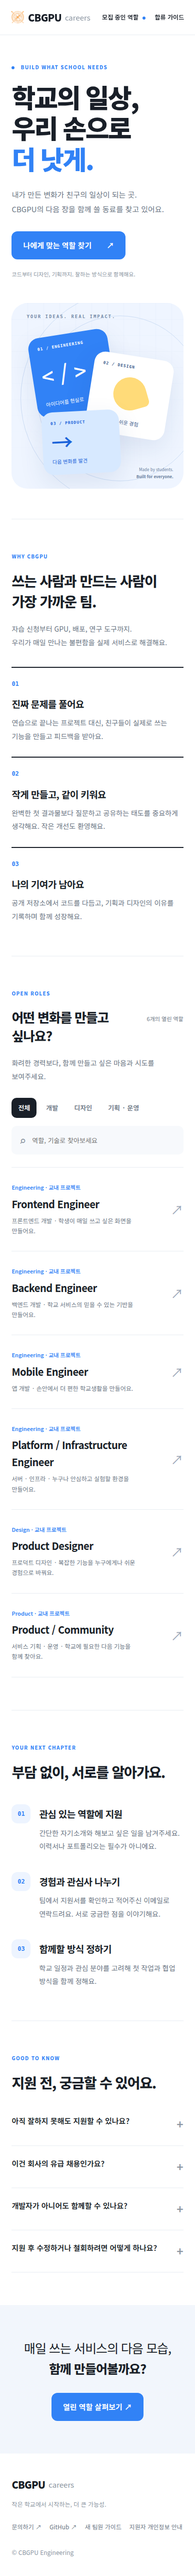
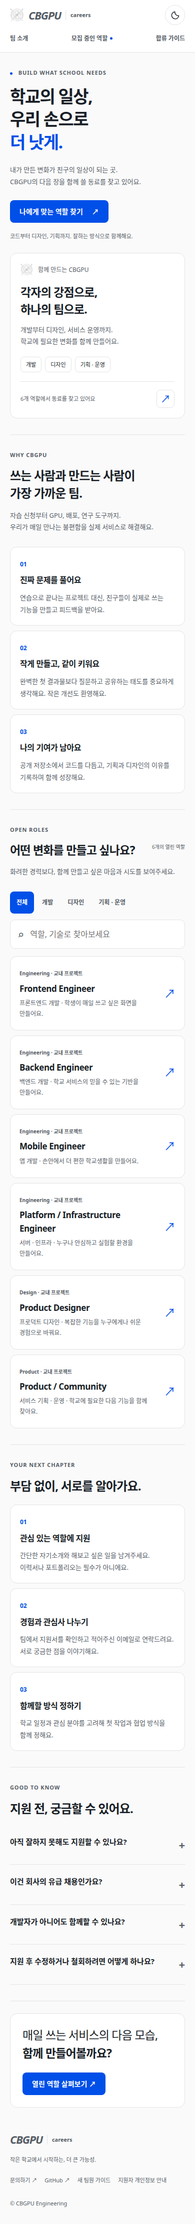
Align recruitment and onboarding with CBGPU public-site design and themes

diff --git a/careers/public/style.css b/careers/public/style.css
@@ -1,6 +1,30 @@
-@import url('https://fonts.googleapis.com/css2?family=Noto+Sans+KR:wght@400;500;600;700;800;900&display=swap');
-:root{--ink:#191f28;--muted:#6b7684;--blue:#3182f6;--line:#e8edf2;--soft:#f7f9fc}*{box-sizing:border-box}html{scroll-behavior:smooth;scroll-padding-top:100px}body{margin:0;color:var(--ink);font-family:'Noto Sans KR',-apple-system,BlinkMacSystemFont,'Segoe UI',sans-serif;font-size:16px;line-height:1.7;word-break:keep-all}button,input,textarea{font:inherit}a{color:inherit;text-decoration:none}button,a,input,textarea,summary{touch-action:manipulation}button,a,summary{-webkit-tap-highlight-color:transparent}button{cursor:pointer}a:focus-visible,button:focus-visible,summary:focus-visible{outline:3px solid #3182f6;outline-offset:5px}input:focus,textarea:focus{outline:2px solid #3182f6;outline-offset:1px}header{height:88px;border-bottom:1px solid var(--line);display:flex;align-items:center;justify-content:space-between;padding:0 max(5vw,24px);background:#ffffffee;backdrop-filter:blur(18px);position:sticky;top:0;z-index:20;gap:20px}.brand{display:inline-flex;align-items:center;gap:10px;white-space:nowrap}.brand img{width:32px;height:32px;object-fit:contain}.brand strong{font-size:23px;font-weight:900;letter-spacing:-.8px}.brand span{color:#8b95a1;font-size:18px}.header-link{font-size:13px;color:var(--muted)}nav{display:flex;gap:34px;font-size:14px;font-weight:600}nav a:hover,.header-link:hover{color:var(--blue)}.nav-dot,.live-dot{display:inline-block;border-radius:50%;background:var(--blue);width:6px;height:6px;vertical-align:middle;margin-left:5px}.live-dot{margin:0 8px 0 0}.hero{max-width:1200px;margin:0 auto;min-height:710px;display:grid;grid-template-columns:1fr 1fr;align-items:center;gap:60px;padding:72px 36px 90px}.eyebrow{font-size:11px;letter-spacing:1.8px;font-weight:800;color:var(--blue);margin:0 0 24px}h1{font-size:clamp(48px,5.3vw,72px);line-height:1.18;letter-spacing:-4px;margin:0 0 28px;font-weight:900}h1 span{color:var(--blue)}.hero-desc{color:var(--muted);line-height:1.9;font-size:17px;margin:0 0 30px}.primary{display:inline-flex;justify-content:space-between;gap:30px;align-items:center;background:var(--blue);color:#fff;padding:15px 23px;border:0;border-radius:12px;font-size:15px;font-weight:700;transition:background .2s,transform .2s}.primary:hover{background:#1b64da;transform:translateY(-2px)}.primary:disabled{opacity:.65;cursor:wait}.hero-note{color:#8b95a1;font-size:11px;margin-top:20px}.hero-art{height:500px;position:relative;border-radius:32px;background:#eff5ff;overflow:hidden;isolation:isolate}.art-grid{position:absolute;inset:0;background-image:linear-gradient(#dce7f755 1px,transparent 1px),linear-gradient(90deg,#dce7f755 1px,transparent 1px);background-size:32px 32px;mask-image:linear-gradient(#000,transparent)}.art-label{position:absolute;top:30px;left:30px;color:#778ca9;font:600 10px monospace;letter-spacing:2px}.orbit{position:absolute;border:1px solid #cbdcf4;border-radius:50%;width:430px;height:430px;top:35px;left:32px}.orbit-two{width:330px;height:330px;top:85px;left:82px}.tile{position:absolute;display:flex;flex-direction:column;justify-content:space-between;width:190px;height:194px;padding:21px;border-radius:22px;box-shadow:0 18px 50px #19427e1a}.tile span{font:600 9px monospace;letter-spacing:1px}.tile b{font-size:53px;font-weight:500;line-height:1}.tile small{font-size:11px}.tile-code{background:#3182f6;color:white;left:45px;top:84px;transform:rotate(-9deg)}.tile-design{background:white;right:28px;top:155px;transform:rotate(9deg);color:#42618e}.tile-product{background:#d7e9ff;color:#1b64da;left:74px;top:266px;transform:rotate(-3deg);width:180px;height:153px}.design-shape{width:66px;height:66px;background:#ffdb79;border-radius:50% 50% 10px 50%;align-self:center;transform:rotate(-25deg)}.art-footer{position:absolute;bottom:25px;right:25px;display:flex;flex-direction:column;text-align:right;font-size:10px;color:#6b819e;line-height:1.7}.section{max-width:1128px;padding:100px 0;margin:0 auto;scroll-margin-top:15px}.intro{border-top:1px solid var(--line)}h2{font-size:38px;line-height:1.45;letter-spacing:-1.8px;margin:0 0 22px;font-weight:800}.section-desc{color:var(--muted);font-size:16px;line-height:1.9;margin:0 0 42px}.values,.steps{display:grid;grid-template-columns:repeat(3,1fr);gap:45px;margin-top:55px}.values article{border-top:2px solid var(--ink);padding-top:22px}.values article>span,.steps article>span{font:600 12px monospace;color:var(--blue)}h3{font-size:21px;letter-spacing:-.6px;margin:20px 0 12px}.values p,.steps p{color:var(--muted);font-size:14px;line-height:1.9;margin:0}.positions{border-top:1px solid var(--line)}.section-heading{display:flex;justify-content:space-between;align-items:center}.count{font-size:13px;color:var(--muted);white-space:nowrap}.tools{display:flex;justify-content:space-between;gap:20px;align-items:center;padding-bottom:25px;border-bottom:1px solid var(--line)}.filters{display:flex;gap:6px;flex-wrap:wrap}.filter{background:transparent;border:0;border-radius:10px;padding:10px 16px;color:var(--muted);font-size:14px;font-weight:600}.filter.active{background:var(--ink);color:white}.search{display:flex;gap:10px;align-items:center;padding:9px 15px;background:var(--soft);border-radius:10px;max-width:285px;min-width:0}.search input{border:0;background:transparent;min-width:0;width:100%;font-size:13px;color:var(--ink)}.search>span{font-size:23px;color:#8b95a1}.role-row{display:flex;align-items:center;justify-content:space-between;padding:29px 10px;border-bottom:1px solid var(--line);gap:20px;transition:background .2s,padding .2s}.role-row:hover{background:var(--soft);padding-left:20px;padding-right:20px}.role-row h3{font-size:23px;margin:4px 0;letter-spacing:-.5px}.role-row small{color:var(--blue);font-weight:600;font-size:11px}.role-row p{color:var(--muted);font-size:13px;margin:6px 0}.role-meta{display:flex;align-items:center;gap:30px;color:#8b95a1;font-size:12px;white-space:nowrap}.arrow{font-size:25px;color:#9ba7b7}.journey{border-top:1px solid var(--line)}.steps article>span{display:inline-grid;place-items:center;background:#edf4ff;width:38px;height:38px;border-radius:12px}.faq{border-top:1px solid var(--line)}details{border-bottom:1px solid var(--line);padding:22px 0}summary{font-size:17px;font-weight:600;cursor:pointer;list-style:none;display:flex;justify-content:space-between;gap:18px}summary::after{content:'+';font-size:23px;color:#8b95a1}details[open] summary::after{content:'−'}details p{color:var(--muted);font-size:14px;max-width:830px;line-height:1.9}details a{color:var(--blue)}.closing{background:#f2f6fc;text-align:center;padding:90px 24px}.closing p{font-size:30px;line-height:1.65;letter-spacing:-1px;margin:0 0 28px}.closing strong{font-weight:800}footer{max-width:1128px;padding:65px 0 40px;margin:auto}footer p,footer small{color:#8b95a1;font-size:12px}footer>div{display:flex;gap:25px;margin:25px 0;font-size:12px;color:var(--muted)}.skip{position:fixed;top:-80px;left:12px;z-index:100;background:#fff;padding:12px}.skip:focus{top:12px}.detail{max-width:1128px;margin:0 auto;padding:50px 0 100px}.back{color:var(--muted);font-size:13px;display:inline-block;margin-bottom:45px}.detail-layout{display:grid;grid-template-columns:minmax(0,1fr) 280px;gap:90px;align-items:start}.detail h1{font-size:44px;letter-spacing:-1.8px;line-height:1.35}.detail .lead{font-size:20px;color:var(--muted);margin:20px 0 45px}.detail h2{font-size:24px;margin:40px 0 18px;letter-spacing:-.7px}.detail ul{padding-left:22px;color:#4e5968;font-size:15px;line-height:1.95}.detail li{padding-left:4px;margin-bottom:10px}.detail .sidebar{position:sticky;top:120px;border:1px solid var(--line);padding:26px;border-radius:18px}.sidebar h3{font-size:18px;margin:0 0 20px}.sidebar dl{font-size:12px;color:var(--muted);margin-bottom:25px}.sidebar dt{margin-top:16px}.sidebar dd{margin:4px 0;color:var(--ink)}.sidebar .primary{width:100%;font-size:14px}.note{background:var(--soft);padding:22px 24px;border-radius:14px;font-size:13px;color:var(--muted);line-height:1.9}.apply{max-width:720px;margin:0 auto;padding:50px 24px 90px}.apply h1{font-size:36px;letter-spacing:-1.4px}.apply .lead{color:var(--muted);font-size:14px}.field{display:block;margin-top:27px;font-size:14px;font-weight:600}.field input,.field textarea{display:block;width:100%;padding:13px 15px;border:1px solid #d8dfe7;border-radius:10px;margin-top:9px;resize:vertical;font-size:14px;font-weight:400;color:var(--ink);background:#fff}.field textarea{min-height:145px}.field small{display:block;color:var(--muted);font-weight:400;margin-top:7px;font-size:12px}.optional{font-weight:400;color:#8b95a1}.consent{display:flex;gap:12px;align-items:flex-start;margin:28px 0;font-size:13px}.consent input{width:19px;height:19px;flex-shrink:0;accent-color:var(--blue)}.consent a{text-decoration:underline}.error{color:#c92b3b;font-size:14px;margin:18px 0}.hidden{display:none!important}.success{padding:90px 0;text-align:center}.success .check{display:grid;place-items:center;width:72px;height:72px;background:#e8f4ed;color:#1c9254;border-radius:50%;font-size:34px;margin:0 auto 30px}.success h1{font-size:32px}.success p{color:var(--muted);font-size:14px}.reference{background:var(--soft);padding:15px;border-radius:12px;font:15px monospace;overflow-wrap:anywhere}.privacy{max-width:760px;margin:60px auto;padding:0 24px 80px}.privacy h1{font-size:32px;letter-spacing:-1px}.privacy h2{font-size:21px;margin-top:30px}.privacy p,.privacy li{color:var(--muted);font-size:14px}.empty{padding:45px;text-align:center;color:var(--muted)}
-@media(min-width:1400px){.hero{gap:95px}.hero-art{height:520px}}@media(max-width:1199px){.section,footer,.detail{margin-left:6vw;margin-right:6vw}.hero{gap:35px}.hero-art{height:460px}.tile-code{left:25px}.tile-design{right:18px}.tile-product{left:45px}.detail-layout{gap:45px}}@media(max-width:800px){header{height:70px;padding:0 22px}nav{gap:18px;font-size:12px}nav a:first-child{display:none}.header-link{display:none}.brand{gap:7px}.brand strong{font-size:20px}.brand span{font-size:15px}.brand img{width:27px;height:27px}.hero{grid-template-columns:1fr;padding:55px 6vw 60px;gap:38px;min-height:0}.hero-copy{max-width:100%}h1{font-size:52px;letter-spacing:-2.7px}.hero-desc{font-size:15px}.hero-art{height:370px;max-width:500px;width:100%;margin:0 auto}.tile{width:160px;height:160px;padding:18px}.tile b{font-size:43px}.tile-code{top:60px;left:12%}.tile-design{top:105px;right:8%}.tile-product{top:215px;left:18%;width:155px;height:125px}.tile span{font-size:8px}.tile small{font-size:10px}.art-label{font-size:9px;top:22px}.art-footer{right:20px;bottom:18px;font-size:8px}.orbit{top:-25px;left:5%}.orbit-two{top:25px;left:15%}.section{padding:65px 0}h2{font-size:28px;letter-spacing:-1.2px}.section-desc{font-size:14px;margin-bottom:30px}.values,.steps{gap:28px;grid-template-columns:1fr;margin-top:35px}.values h3,.steps h3{font-size:19px;margin:13px 0 8px}.values article{padding-top:16px}.steps article{padding-left:55px;position:relative}.steps article>span{position:absolute;left:0;top:10px}.tools{align-items:stretch;flex-direction:column;gap:16px}.search{max-width:none}.filter{font-size:13px;padding:9px 13px}.role-row{padding:24px 0}.role-row h3{font-size:20px}.role-row p{font-size:12px;max-width:260px}.role-meta>span:first-child{display:none}.role-meta{gap:8px}.count{font-size:11px}.section-heading{gap:12px;align-items:flex-start}.section-heading h2{font-size:26px}.section-heading .count{padding-top:50px}.closing{padding:65px 24px}.closing p{font-size:25px}summary{font-size:15px}footer{padding:45px 0 35px}footer>div{gap:16px;flex-wrap:wrap}.detail{padding-top:30px}.detail-layout{grid-template-columns:1fr;gap:35px}.detail h1{font-size:33px;overflow-wrap:anywhere}.detail .lead{font-size:17px}.detail .sidebar{position:static}.detail h2{font-size:22px}.back{margin-bottom:30px}.detail ul{font-size:14px}.apply{padding-top:30px}.apply h1{font-size:29px}.primary{min-height:48px}.success{padding:45px 0}.eyebrow{letter-spacing:1.3px;font-size:10px;margin-bottom:20px}}
+/* CBGPU public-site tokens: src/app/globals.css, Navbar and audience-design.css.
+   This independent service shares their visual conventions, not their runtime. */
+:root {
+  --background:#fafafa; --foreground:#191f28; --card:#fff;
+  --primary:#004fe8; --primary-hover:#0045cf; --primary-foreground:#fff;
+  --muted:#f3f3f3; --muted-foreground:#565d66; --border:#e4e4e7;
+  --input:#b0b8c1; --destructive:#b42332; --radius:10px;
+  --font-sans:ui-sans-serif,system-ui,sans-serif,"Apple Color Emoji","Segoe UI Emoji","Segoe UI Symbol","Noto Color Emoji";
+}
+.dark {
+  --background:#17171c; --foreground:#ececef; --card:#202027;
+  --primary:#3b82f6; --primary-hover:#4b8cfa; --primary-foreground:#17171c;
+  --muted:#2c2c35; --muted-foreground:#b0b8c1; --border:#ffffff26;
+  --input:#ffffff26; --destructive:#ff9ba5;
+}
+*{box-sizing:border-box}html{scroll-behavior:smooth;scroll-padding-top:100px}
+body{margin:0;background:var(--background);color:var(--foreground);font:15px/1.75 var(--font-sans);word-break:keep-all}
+button,input,textarea{font:inherit}a{color:inherit;text-decoration:none}a,button,input,textarea,summary{touch-action:manipulation}button{cursor:pointer}
+a:focus-visible,button:focus-visible,summary:focus-visible,input:focus-visible,textarea:focus-visible{outline:2px solid var(--primary);outline-offset:4px}
+header{min-height:76px;padding:14px 40px;display:flex;align-items:center;justify-content:space-between;gap:24px;border-bottom:1px solid var(--border);background:var(--card);position:sticky;top:0;z-index:20}
+.brand{display:inline-flex;align-items:center;gap:9px;white-space:nowrap}.brand img{width:32px;height:32px;object-fit:contain;filter:grayscale(1);opacity:.7;transition:filter .2s,opacity .2s}.brand:hover img{filter:none;opacity:1}.brand strong{font-size:24px;font-weight:900;font-style:italic;letter-spacing:-1.2px;color:var(--muted-foreground)}.brand:hover strong{color:var(--primary)}.brand span{font-size:12px;font-weight:600;color:var(--muted-foreground);padding-left:12px;border-left:1px solid var(--border)}
+nav{display:flex;gap:24px;font-size:13px;font-weight:600;color:var(--muted-foreground)}nav a{min-height:44px;display:flex;align-items:center;gap:5px}nav a:hover{color:var(--foreground)}.header-actions{display:flex;gap:20px;align-items:center}.header-link{font-size:12px;font-weight:600;color:var(--muted-foreground);white-space:nowrap}.theme-toggle{width:40px;height:40px;display:grid;place-items:center;flex:none;border:1px solid var(--border);background:transparent;border-radius:50%;color:var(--foreground)}.theme-toggle:hover{background:var(--muted)}.theme-toggle svg{width:19px;height:19px}.nav-dot,.live-dot{display:inline-block;width:5px;height:5px;border-radius:50%;background:var(--primary);vertical-align:middle}.live-dot{margin-right:8px}
+.hero,.section,.detail,footer{width:calc(100% - 64px);max-width:1120px;margin-inline:auto}.hero{display:grid;grid-template-columns:1.25fr 1fr;gap:70px;align-items:center;padding:60px 0 44px;border-bottom:1px solid var(--border)}.eyebrow{font-size:11px;line-height:1.5;letter-spacing:.08em;color:var(--muted-foreground);font-weight:600;margin:0 0 16px}h1{font-size:clamp(32px,3.3vw,44px);line-height:1.35;letter-spacing:-.045em;font-weight:730;margin:0 0 20px}h1 span{color:var(--primary)}.hero-desc{color:var(--muted-foreground);font-size:14px;line-height:1.8;margin:0 0 25px}.primary{display:inline-flex;align-items:center;justify-content:center;gap:18px;min-height:44px;padding:11px 18px;border:1px solid transparent;background:var(--primary);color:var(--primary-foreground);border-radius:8px;font-size:14px;line-height:1.5;font-weight:600;transition:background .15s,transform .15s}.primary:hover{background:var(--primary-hover)}.primary:active{transform:translateY(1px)}.primary:disabled{opacity:.5;cursor:wait}.hero-note{font-size:11px;color:var(--muted-foreground);margin:17px 0 0}
+.hero-summary{border:1px solid var(--border);border-radius:14px;padding:26px;background:var(--card)}.summary-brand{display:flex;align-items:center;gap:10px;font-size:12px;color:var(--muted-foreground)}.summary-brand img{width:25px;height:25px;filter:grayscale(1);opacity:.7}.hero-summary h2{font-size:27px;margin:22px 0 12px}.hero-summary>p{font-size:13px;line-height:1.8;color:var(--muted-foreground)}.summary-areas{display:flex;gap:7px;flex-wrap:wrap;margin:22px 0}.summary-areas span{padding:5px 10px;border-radius:7px;border:1px solid var(--border);font-size:11px}.summary-bottom{display:flex;align-items:center;justify-content:space-between;gap:12px;border-top:1px solid var(--border);padding-top:16px;font-size:11px;color:var(--muted-foreground)}.summary-bottom a{display:grid;place-items:center;width:36px;height:36px;border:1px solid var(--border);border-radius:8px;font-size:20px;color:var(--primary)}
+.section{padding:48px 0;border-bottom:1px solid var(--border);scroll-margin-top:15px}h2{font-size:27px;line-height:1.45;letter-spacing:-.035em;font-weight:700;margin:0 0 15px}.section-desc{font-size:14px;line-height:1.8;color:var(--muted-foreground);margin:0 0 27px}.values,.steps{display:grid;grid-template-columns:repeat(3,minmax(0,1fr));gap:12px;margin-top:26px}.values article,.steps article{border:1px solid var(--border);border-radius:13px;background:var(--card);padding:22px;min-width:0}.values article>span,.steps article>span{font:600 12px var(--font-sans);color:var(--primary)}h3{font-size:17px;letter-spacing:-.025em;line-height:1.6;font-weight:650;margin:14px 0 9px}.values p,.steps p{font-size:13px;line-height:1.85;color:var(--muted-foreground);margin:0}.section-heading{display:flex;align-items:center;justify-content:space-between;gap:15px}.count{font-size:12px;color:var(--muted-foreground);white-space:nowrap}.tools{display:flex;align-items:center;justify-content:space-between;gap:20px;margin-bottom:15px}.filters{display:flex;gap:6px;flex-wrap:wrap}.filter{min-height:44px;padding:9px 13px;font-size:13px;font-weight:600;background:transparent;color:var(--muted-foreground);border:1px solid transparent;border-radius:8px}.filter:hover{background:var(--muted)}.filter.active{color:var(--primary-foreground);background:var(--primary)}.search{display:flex;align-items:center;gap:10px;min-width:0;max-width:285px;padding:9px 14px;min-height:44px;border:1px solid var(--border);border-radius:10px;background:var(--card)}.search input{border:0;background:transparent;min-width:0;width:100%;font-size:13px;color:var(--foreground)}.search>span{font-size:22px;color:var(--muted-foreground)}#roles{display:grid;gap:10px}.role-row{display:flex;align-items:center;justify-content:space-between;gap:20px;min-width:0;border:1px solid var(--border);border-radius:13px;padding:21px 23px;background:var(--card);transition:border-color .15s}.role-row:hover{border-color:var(--primary)}.role-row small{font-size:10px;font-weight:600;color:var(--muted-foreground)}.role-row h3{font-size:19px;margin:5px 0;overflow-wrap:anywhere}.role-row p{font-size:12px;line-height:1.75;color:var(--muted-foreground);margin:4px 0}.role-meta{display:flex;align-items:center;gap:24px;white-space:nowrap;font-size:11px;color:var(--muted-foreground)}.arrow{color:var(--primary);font-size:23px}
+details{border-bottom:1px solid var(--border);padding:20px 0}summary{font-size:15px;line-height:1.75;font-weight:600;cursor:pointer;list-style:none;display:flex;justify-content:space-between;gap:18px}summary::after{content:'+';font-size:22px;color:var(--muted-foreground)}details[open] summary::after{content:'−'}details p{font-size:13px;line-height:1.9;color:var(--muted-foreground);max-width:820px}details a,.text-link{color:var(--primary)}.closing{max-width:1120px;width:calc(100% - 64px);margin:32px auto;padding:35px;border:1px solid var(--border);border-radius:14px;background:var(--card);display:flex;align-items:center;justify-content:space-between;gap:24px}.closing p{font-size:24px;line-height:1.6;letter-spacing:-.035em;margin:0}.closing strong{font-weight:700}footer{padding:32px 0 30px}footer p,footer small{font-size:11px;color:var(--muted-foreground)}footer>div{display:flex;gap:22px;flex-wrap:wrap;font-size:12px;margin:22px 0;color:var(--muted-foreground)}.skip{position:fixed;top:-80px;left:12px;z-index:100;background:var(--primary);color:var(--primary-foreground);padding:12px;border-radius:8px}.skip:focus{top:12px}.empty{padding:35px;text-align:center;font-size:14px;color:var(--muted-foreground)}
+.detail{padding:38px 0 65px}.back{display:inline-flex;align-items:center;min-height:44px;font-size:13px;color:var(--muted-foreground);margin-bottom:25px}.detail-layout{display:grid;grid-template-columns:minmax(0,1fr) 280px;gap:65px;align-items:start}.detail h1{font-size:36px;overflow-wrap:anywhere}.detail .lead{font-size:17px;color:var(--muted-foreground);margin:18px 0 30px}.detail h2{font-size:22px;letter-spacing:-.035em;margin:34px 0 16px}.detail article>p{font-size:14px;line-height:1.9;color:var(--muted-foreground)}.detail ul{padding-left:22px;font-size:14px;line-height:1.9;color:var(--muted-foreground)}.detail li{padding-left:3px;margin-bottom:9px}.detail .sidebar{position:sticky;top:100px;border:1px solid var(--border);border-radius:13px;background:var(--card);padding:24px}.sidebar h3{font-size:17px;margin:0 0 20px}.sidebar dl{font-size:12px;color:var(--muted-foreground);margin-bottom:24px}.sidebar dt{margin-top:16px}.sidebar dd{margin:4px 0;color:var(--foreground)}.sidebar .primary{width:100%;font-size:13px}.note{background:var(--card);border:1px solid var(--border);border-radius:12px;padding:20px;font-size:13px;line-height:1.9;color:var(--muted-foreground)}.apply{max-width:720px;margin:0 auto;padding:36px 24px 60px}.apply h1{font-size:32px}.apply .lead{font-size:13px;color:var(--muted-foreground)}.field{display:block;font-size:14px;font-weight:600;margin-top:26px}.field input,.field textarea{display:block;width:100%;min-height:44px;padding:12px 14px;border:1px solid var(--input);border-radius:8px;margin-top:9px;background:var(--card);color:var(--foreground);resize:vertical;font-size:14px;font-weight:400}.field textarea{min-height:140px}.field small{display:block;font-size:12px;font-weight:400;color:var(--muted-foreground);margin-top:7px}.optional{font-weight:400;color:var(--muted-foreground)}.consent{display:flex;align-items:flex-start;gap:11px;margin:26px 0;font-size:13px;line-height:1.8}.consent input{width:19px;height:19px;flex-shrink:0;accent-color:var(--primary)}.consent a{text-decoration:underline}.error{color:var(--destructive);font-size:14px;margin:18px 0}.hidden{display:none!important}.success{padding-block:65px;text-align:center}.success .check{display:grid;place-items:center;width:65px;height:65px;border-radius:50%;color:var(--primary);background:var(--muted);font-size:30px;margin:0 auto 25px}.success h1{font-size:30px}.success p{font-size:14px;color:var(--muted-foreground)}.reference{background:var(--card);border:1px solid var(--border);padding:16px;border-radius:10px;font:14px monospace;overflow-wrap:anywhere}.privacy{max-width:760px;margin:40px auto;padding:0 24px 60px}.privacy h1{font-size:30px}.privacy h2{font-size:21px;margin-top:28px}.privacy p,.privacy li{font-size:14px;line-height:1.9;color:var(--muted-foreground)}.welcome-template{white-space:pre-wrap;overflow-wrap:anywhere;background:var(--card);border:1px solid var(--border);border-radius:12px;padding:22px;font:13px/1.9 monospace;word-break:break-word;color:var(--foreground)}.copy-button{min-height:44px;padding:10px 15px;border:1px solid var(--border);border-radius:8px;background:var(--card);color:var(--foreground);font-size:13px;margin-bottom:18px}.copy-button:hover{background:var(--muted)}.onboarding-checks{display:grid;gap:16px;font-size:13px}.onboarding-checks label{display:flex;align-items:center;gap:10px}.onboarding-checks input{width:18px;height:18px;accent-color:var(--primary)}.text-link{font-size:13px}
+@media(max-width:1000px){header{padding-inline:24px;gap:18px}nav{gap:16px}.header-link{display:none}.hero{gap:30px}.detail-layout{gap:35px}.values article,.steps article{padding:19px}.hero-summary{padding:23px}}
+@media(max-width:700px){header{padding:10px 20px;gap:8px;flex-wrap:wrap}.brand strong{font-size:22px}.brand img{width:28px;height:28px}.brand span{font-size:11px;padding-left:9px}header nav{order:3;width:100%;justify-content:space-between;gap:12px;font-size:12px}header nav a{min-height:36px}.header-actions{margin-left:auto}.hero,.section,.detail,footer,.closing{width:calc(100% - 40px)}html{scroll-padding-top:122px}.hero{grid-template-columns:1fr;padding:32px 0;gap:24px}h1{font-size:34px}.hero-desc{font-size:13px}.hero-note{font-size:11px}.hero-summary h2{font-size:23px;margin-top:16px}.hero-summary{padding:20px}.summary-areas{margin:18px 0}.section{padding:32px 0}h2{font-size:24px}.section-desc{font-size:13px}.values,.steps{grid-template-columns:1fr;gap:10px;margin-top:20px}.values article,.steps article{padding:19px}.values h3,.steps h3{margin-top:8px;font-size:16px}.section-heading{gap:10px;align-items:flex-start}.section-heading h2{font-size:23px}.count{font-size:10px;padding-top:34px}.tools{flex-direction:column;align-items:stretch;gap:12px}.filters{gap:3px}.filter{padding-inline:12px;font-size:12px}.search{max-width:none}.search input{font-size:16px}.role-row{padding:18px;gap:12px}.role-row h3{font-size:17px}.role-row p{font-size:12px}.role-meta>span:first-child{display:none}.role-meta{gap:0}.closing{display:block;padding:24px;margin-block:24px}.closing p{font-size:23px;margin-bottom:20px}footer{padding-top:20px}footer>div{gap:15px;font-size:11px}.detail{padding-top:24px}.detail-layout{grid-template-columns:1fr;gap:24px}.detail h1{font-size:30px}.detail .lead{font-size:16px}.detail .sidebar{position:static}.detail h2{font-size:21px}.apply{padding-top:24px}.apply h1{font-size:28px}.field input,.field textarea{font-size:16px}.back{margin-bottom:20px}.success{padding-top:35px}.welcome-template{padding:16px;font-size:12px}.privacy h1{font-size:27px}}
 @media(prefers-reduced-motion:reduce){html{scroll-behavior:auto}*{transition:none!important}}
-
-.welcome-template{white-space:pre-wrap;overflow-wrap:anywhere;background:#f4f7fb;padding:24px;border-radius:14px;font:13px/1.9 monospace;word-break:break-word}.copy-button{background:white;border:1px solid #d8dfe7;border-radius:9px;padding:10px 15px;margin:0 0 24px;color:#4e5968;font-size:13px}.onboarding-checks{display:grid;gap:16px;font-size:13px}.onboarding-checks label{display:flex;gap:10px;align-items:center}.onboarding-checks input{width:18px;height:18px;accent-color:#3182f6}.text-link{color:#3182f6;font-size:14px}.detail article>p{line-height:1.95;color:#4e5968;font-size:15px}

diff --git a/careers/public/index.html b/careers/public/index.html
@@ -1,1 +1,1 @@
-<!doctype html><html lang="ko"><head><meta charset="utf-8"><meta name="viewport" content="width=device-width, initial-scale=1"><title>CBGPU Careers — 학교의 일상을 바꾸는 팀</title><meta name="description" content="CBGPU를 함께 만들 동료를 찾습니다. 프론트엔드, 백엔드, 앱, 인프라, 디자인, 기획·운영 분야별 팀 모집 공고와 지원."><meta name="theme-color" content="#ffffff"><meta property="og:title" content="학교의 일상을 바꾸는 팀, CBGPU"><meta property="og:description" content="내가 만든 변화가 친구의 일상이 되는 곳. CBGPU 팀에 합류하세요."><meta property="og:type" content="website"><meta property="og:url" content="https://careers.cbgpu.com"><link rel="icon" href="/logo.png"><link rel="stylesheet" href="/style.css"><script defer src="/app.js"></script></head><body><a class="skip" href="#main">본문으로 건너뛰기</a><header><a class="brand" href="/" aria-label="CBGPU Careers 홈"><img src="/logo.png" alt=""><strong>CBGPU</strong><span>careers</span></a><nav aria-label="주 메뉴"><a href="/#team">팀 소개</a><a href="/#positions">모집 중인 역할 <span class="nav-dot"></span></a><a href="/onboarding" data-route>합류 가이드</a></nav><a class="header-link" href="https://cbgpu.com">CBGPU ↗</a></header><main id="main" tabindex="-1"><div id="view"><section class="hero"><div class="hero-copy"><p class="eyebrow"><span class="live-dot"></span> BUILD WHAT SCHOOL NEEDS</p><h1>학교의 일상,<br>우리 손으로<br><span>더 낫게.</span></h1><p class="hero-desc">내가 만든 변화가 친구의 일상이 되는 곳.<br>CBGPU의 다음 장을 함께 쓸 동료를 찾고 있어요.</p><a class="primary" href="#positions">나에게 맞는 역할 찾기 <span>↗</span></a><p class="hero-note">코드부터 디자인, 기획까지. 잘하는 방식으로 함께해요.</p></div><div class="hero-art" aria-label="학교의 다양한 아이디어를 하나의 서비스로 연결하는 CBGPU"><div class="art-grid"></div><div class="orbit orbit-one"></div><div class="orbit orbit-two"></div><div class="art-label">YOUR IDEAS. REAL IMPACT.</div><div class="tile tile-code"><span>01 / ENGINEERING</span><b>&lt; / &gt;</b><small>아이디어를 현실로</small></div><div class="tile tile-design"><span>02 / DESIGN</span><div class="design-shape"></div><small>누구에게나 쉬운 경험</small></div><div class="tile tile-product"><span>03 / PRODUCT</span><b>→</b><small>다음 변화를 발견</small></div><div class="art-footer"><span>Made by students.</span><strong>Built for everyone.</strong></div></div></section><section class="intro section" id="team"><p class="eyebrow">WHY CBGPU</p><h2>쓰는 사람과 만드는 사람이<br>가장 가까운 팀.</h2><p class="section-desc">자습 신청부터 GPU, 배포, 연구 도구까지.<br>우리가 매일 만나는 불편함을 실제 서비스로 해결해요.</p><div class="values"><article><span>01</span><h3>진짜 문제를 풀어요</h3><p>연습으로 끝나는 프로젝트 대신, 친구들이 실제로 쓰는 기능을 만들고 피드백을 받아요.</p></article><article><span>02</span><h3>작게 만들고, 같이 키워요</h3><p>완벽한 첫 결과물보다 질문하고 공유하는 태도를 중요하게 생각해요. 작은 개선도 환영해요.</p></article><article><span>03</span><h3>나의 기여가 남아요</h3><p>공개 저장소에서 코드를 다듬고, 기획과 디자인의 이유를 기록하며 함께 성장해요.</p></article></div></section><section class="positions section" id="positions"><div class="section-heading"><div><p class="eyebrow">OPEN ROLES</p><h2>어떤 변화를 만들고 싶나요?</h2></div><span id="count" class="count"></span></div><p class="section-desc">화려한 경력보다, 함께 만들고 싶은 마음과 시도를 보여주세요.</p><div class="tools"><div class="filters" role="group" aria-label="분야 선택"><button class="filter active" data-category="all" aria-pressed="true">전체</button><button class="filter" data-category="Engineering" aria-pressed="false">개발</button><button class="filter" data-category="Design" aria-pressed="false">디자인</button><button class="filter" data-category="Product" aria-pressed="false">기획 · 운영</button></div><label class="search"><span>⌕</span><input id="search" type="search" aria-label="역할 또는 기술 검색" placeholder="역할, 기술로 찾아보세요"></label></div><div id="roles" aria-live="polite"><p>모집 공고를 불러오고 있어요.</p></div></section><section class="journey section" id="journey"><p class="eyebrow">YOUR NEXT CHAPTER</p><h2>부담 없이, 서로를 알아가요.</h2><div class="steps"><article><span>01</span><h3>관심 있는 역할에 지원</h3><p>간단한 자기소개와 해보고 싶은 일을 남겨주세요. 이력서나 포트폴리오는 필수가 아니에요.</p></article><article><span>02</span><h3>경험과 관심사 나누기</h3><p>팀에서 지원서를 확인하고 적어주신 이메일로 연락드려요. 서로 궁금한 점을 이야기해요.</p></article><article><span>03</span><h3>함께할 방식 정하기</h3><p>학교 일정과 관심 분야를 고려해 첫 작업과 협업 방식을 함께 정해요.</p></article></div></section><section class="faq section"><p class="eyebrow">GOOD TO KNOW</p><h2>지원 전, 궁금할 수 있어요.</h2><details><summary>아직 잘하지 못해도 지원할 수 있나요?</summary><p>네. 필요한 기초를 배우면서 작은 결과물을 만들어본 경험도 좋아요. 지금 할 수 있는 것과 앞으로 배우고 싶은 것을 솔직하게 적어주세요.</p></details><details><summary>이건 회사의 유급 채용인가요?</summary><p>이 페이지는 교내 CBGPU 프로젝트 팀원을 모집하는 공간이에요. 고용·급여나 특정 활동 혜택을 약속하는 공고가 아니며, 활동 방식과 일정은 합류 전에 함께 확인해요.</p></details><details><summary>개발자가 아니어도 함께할 수 있나요?</summary><p>물론이에요. 디자인, 서비스 기획, 문서화, 사용자 테스트와 운영도 서비스를 만드는 중요한 일이에요.</p></details><details><summary>지원 후 수정하거나 철회하려면 어떻게 하나요?</summary><p>접수 번호와 함께 <a href="mailto:info@cbgpu.com">info@cbgpu.com</a>으로 알려주세요. 지원서는 모집 검토와 연락 목적으로만 이용하고 접수 90일 후 자동 삭제해요.</p></details></section><section class="closing"><p>매일 쓰는 서비스의 다음 모습,<br><strong>함께 만들어볼까요?</strong></p><a class="primary" href="#positions">열린 역할 살펴보기 ↗</a></section></div></main><footer><a class="brand" href="/"><strong>CBGPU</strong><span>careers</span></a><p>작은 학교에서 시작하는, 더 큰 가능성.</p><div><a href="mailto:info@cbgpu.com">문의하기 ↗</a><a href="https://github.com/CBGPU-Engineering">GitHub ↗</a><a href="/onboarding" data-route>새 팀원 가이드</a><a href="/privacy" data-route>지원자 개인정보 안내</a></div><small>© CBGPU Engineering</small></footer></body></html>
+<!doctype html><html lang="ko"><head><meta charset="utf-8"><meta name="viewport" content="width=device-width, initial-scale=1"><title>CBGPU Careers — 학교의 일상을 바꾸는 팀</title><meta name="description" content="CBGPU를 함께 만들 동료를 찾습니다. 프론트엔드, 백엔드, 앱, 인프라, 디자인, 기획·운영 분야별 팀 모집 공고와 지원."><meta name="theme-color" content="#ffffff"><meta property="og:title" content="학교의 일상을 바꾸는 팀, CBGPU"><meta property="og:description" content="내가 만든 변화가 친구의 일상이 되는 곳. CBGPU 팀에 합류하세요."><meta property="og:type" content="website"><meta property="og:url" content="https://careers.cbgpu.com"><link rel="icon" href="/logo.png"><script src="/theme.js"></script><link rel="stylesheet" href="/style.css"><script defer src="/app.js"></script></head><body><a class="skip" href="#main">본문으로 건너뛰기</a><header><a class="brand" href="/" aria-label="CBGPU Careers 홈"><img src="/logo.png" alt=""><strong>CBGPU</strong><span>careers</span></a><nav aria-label="주 메뉴"><a href="/#team">팀 소개</a><a href="/#positions">모집 중인 역할 <span class="nav-dot"></span></a><a href="/onboarding" data-route>합류 가이드</a></nav><div class="header-actions"><a class="header-link" href="https://cbgpu.com">CBGPU ↗</a><button class="theme-toggle" type="button" aria-label="화면 테마 전환" title="화면 테마 전환"></button></div></header><main id="main" tabindex="-1"><div id="view"><section class="hero"><div class="hero-copy"><p class="eyebrow"><span class="live-dot"></span> BUILD WHAT SCHOOL NEEDS</p><h1>학교의 일상,<br>우리 손으로<br><span>더 낫게.</span></h1><p class="hero-desc">내가 만든 변화가 친구의 일상이 되는 곳.<br>CBGPU의 다음 장을 함께 쓸 동료를 찾고 있어요.</p><a class="primary" href="#positions">나에게 맞는 역할 찾기 <span>↗</span></a><p class="hero-note">코드부터 디자인, 기획까지. 잘하는 방식으로 함께해요.</p></div><aside class="hero-summary" aria-label="CBGPU 팀 모집 안내"><div class="summary-brand"><img src="/logo.png" alt=""><span>함께 만드는 CBGPU</span></div><h2>각자의 강점으로,<br>하나의 팀으로.</h2><p>개발부터 디자인, 서비스 운영까지.<br>학교에 필요한 변화를 함께 만들어요.</p><div class="summary-areas"><span>개발</span><span>디자인</span><span>기획 · 운영</span></div><div class="summary-bottom"><span>6개 역할에서 동료를 찾고 있어요</span><a href="#positions" aria-label="모집 역할 살펴보기">↗</a></div></aside></section><section class="intro section" id="team"><p class="eyebrow">WHY CBGPU</p><h2>쓰는 사람과 만드는 사람이<br>가장 가까운 팀.</h2><p class="section-desc">자습 신청부터 GPU, 배포, 연구 도구까지.<br>우리가 매일 만나는 불편함을 실제 서비스로 해결해요.</p><div class="values"><article><span>01</span><h3>진짜 문제를 풀어요</h3><p>연습으로 끝나는 프로젝트 대신, 친구들이 실제로 쓰는 기능을 만들고 피드백을 받아요.</p></article><article><span>02</span><h3>작게 만들고, 같이 키워요</h3><p>완벽한 첫 결과물보다 질문하고 공유하는 태도를 중요하게 생각해요. 작은 개선도 환영해요.</p></article><article><span>03</span><h3>나의 기여가 남아요</h3><p>공개 저장소에서 코드를 다듬고, 기획과 디자인의 이유를 기록하며 함께 성장해요.</p></article></div></section><section class="positions section" id="positions"><div class="section-heading"><div><p class="eyebrow">OPEN ROLES</p><h2>어떤 변화를 만들고 싶나요?</h2></div><span id="count" class="count"></span></div><p class="section-desc">화려한 경력보다, 함께 만들고 싶은 마음과 시도를 보여주세요.</p><div class="tools"><div class="filters" role="group" aria-label="분야 선택"><button class="filter active" data-category="all" aria-pressed="true">전체</button><button class="filter" data-category="Engineering" aria-pressed="false">개발</button><button class="filter" data-category="Design" aria-pressed="false">디자인</button><button class="filter" data-category="Product" aria-pressed="false">기획 · 운영</button></div><label class="search"><span>⌕</span><input id="search" type="search" aria-label="역할 또는 기술 검색" placeholder="역할, 기술로 찾아보세요"></label></div><div id="roles" aria-live="polite"><p>모집 공고를 불러오고 있어요.</p></div></section><section class="journey section" id="journey"><p class="eyebrow">YOUR NEXT CHAPTER</p><h2>부담 없이, 서로를 알아가요.</h2><div class="steps"><article><span>01</span><h3>관심 있는 역할에 지원</h3><p>간단한 자기소개와 해보고 싶은 일을 남겨주세요. 이력서나 포트폴리오는 필수가 아니에요.</p></article><article><span>02</span><h3>경험과 관심사 나누기</h3><p>팀에서 지원서를 확인하고 적어주신 이메일로 연락드려요. 서로 궁금한 점을 이야기해요.</p></article><article><span>03</span><h3>함께할 방식 정하기</h3><p>학교 일정과 관심 분야를 고려해 첫 작업과 협업 방식을 함께 정해요.</p></article></div></section><section class="faq section"><p class="eyebrow">GOOD TO KNOW</p><h2>지원 전, 궁금할 수 있어요.</h2><details><summary>아직 잘하지 못해도 지원할 수 있나요?</summary><p>네. 필요한 기초를 배우면서 작은 결과물을 만들어본 경험도 좋아요. 지금 할 수 있는 것과 앞으로 배우고 싶은 것을 솔직하게 적어주세요.</p></details><details><summary>이건 회사의 유급 채용인가요?</summary><p>이 페이지는 교내 CBGPU 프로젝트 팀원을 모집하는 공간이에요. 고용·급여나 특정 활동 혜택을 약속하는 공고가 아니며, 활동 방식과 일정은 합류 전에 함께 확인해요.</p></details><details><summary>개발자가 아니어도 함께할 수 있나요?</summary><p>물론이에요. 디자인, 서비스 기획, 문서화, 사용자 테스트와 운영도 서비스를 만드는 중요한 일이에요.</p></details><details><summary>지원 후 수정하거나 철회하려면 어떻게 하나요?</summary><p>접수 번호와 함께 <a href="mailto:info@cbgpu.com">info@cbgpu.com</a>으로 알려주세요. 지원서는 모집 검토와 연락 목적으로만 이용하고 접수 90일 후 자동 삭제해요.</p></details></section><section class="closing"><p>매일 쓰는 서비스의 다음 모습,<br><strong>함께 만들어볼까요?</strong></p><a class="primary" href="#positions">열린 역할 살펴보기 ↗</a></section></div></main><footer><a class="brand" href="/"><strong>CBGPU</strong><span>careers</span></a><p>작은 학교에서 시작하는, 더 큰 가능성.</p><div><a href="mailto:info@cbgpu.com">문의하기 ↗</a><a href="https://github.com/CBGPU-Engineering">GitHub ↗</a><a href="/onboarding" data-route>새 팀원 가이드</a><a href="/privacy" data-route>지원자 개인정보 안내</a></div><small>© CBGPU Engineering</small></footer></body></html>

diff --git a/careers/public/onboarding.html b/careers/public/onboarding.html
@@ -1,4 +1,4 @@
-<!DOCTYPE html><html lang="ko"><head><meta charset="utf-8"><meta name="viewport" content="width=device-width, initial-scale=1"><title>새 팀원 합류 가이드 | CBGPU Careers</title><meta name="description" content="CBGPU를 함께 만들 동료를 찾습니다. 프론트엔드, 백엔드, 앱, 인프라, 디자인, 기획·운영 분야별 팀 모집 공고와 지원."><meta name="theme-color" content="#ffffff"><meta property="og:title" content="학교의 일상을 바꾸는 팀, CBGPU"><meta property="og:description" content="내가 만든 변화가 친구의 일상이 되는 곳. CBGPU 팀에 합류하세요."><meta property="og:type" content="website"><meta property="og:url" content="https://careers.cbgpu.com"><link rel="icon" href="/logo.png"><link rel="stylesheet" href="/style.css"><script defer src="/onboarding.js"></script></head><body><a class="skip" href="#main">본문으로 건너뛰기</a><header><a class="brand" href="/" aria-label="CBGPU Careers 홈"><img src="/logo.png" alt=""><strong>CBGPU</strong><span>careers</span></a><nav aria-label="주 메뉴"><a href="/#team">팀 소개</a><a href="/#positions">모집 중인 역할 <span class="nav-dot"></span></a><a href="/onboarding" data-route="">합류 가이드</a></nav><a class="header-link" href="https://cbgpu.com">CBGPU ↗</a></header><main id="main" tabindex="-1"><div id="view"><section class="detail"><a class="back" data-route="" href="/">← 모집 페이지</a><div class="detail-layout"><article><p class="eyebrow">WELCOME TO THE TEAM</p><h1>CBGPU에서의 첫날,<br>여기서 시작해요.</h1><p class="lead">합류 안내를 받은 새 팀원을 위한 시작 가이드예요.</p><p class="note">지원서 제출만으로 합류가 확정되는 것은 아니에요. 담당자에게 합류 안내를 받았다면 아래 순서대로 진행해주세요. Slack 초대 링크는 만료되거나 운영자가 변경할 수 있어요. 접속되지 않으면 info@cbgpu.com으로 알려주세요.</p><h2>01. Slack 워크스페이스에 참여해요</h2><p>아래 초대 링크를 열고 사용할 이메일로 가입하거나 로그인하세요. 워크스페이스 이름이 <strong>CBGPU Engineering</strong>인지 확인하고, 팀원이 알아볼 수 있도록 표시 이름을 설정해주세요.</p><a class="primary" href="https://join.slack.com/t/cbgpuengineering/shared_invite/zt-4fk9n8tkx-F1TSN9wCapb5FmH4ISGpdg" target="_blank" rel="noopener noreferrer">Slack 참여하기 ↗</a><h2>02. 자기소개와 GitHub ID를 올려요</h2><p>Slack에 들어간 뒤 기본으로 참여된 대화 채널에 아래 양식으로 메시지를 올려주세요. 채널이 여러 개라면 담당자가 안내한 자기소개 채널을 이용해주세요.</p><pre class="welcome-template">안녕하세요! CBGPU에 합류한 [이름]입니다.
+<!DOCTYPE html><html lang="ko"><head><meta charset="utf-8"><meta name="viewport" content="width=device-width, initial-scale=1"><title>새 팀원 합류 가이드 | CBGPU Careers</title><meta name="description" content="CBGPU를 함께 만들 동료를 찾습니다. 프론트엔드, 백엔드, 앱, 인프라, 디자인, 기획·운영 분야별 팀 모집 공고와 지원."><meta name="theme-color" content="#ffffff"><meta property="og:title" content="학교의 일상을 바꾸는 팀, CBGPU"><meta property="og:description" content="내가 만든 변화가 친구의 일상이 되는 곳. CBGPU 팀에 합류하세요."><meta property="og:type" content="website"><meta property="og:url" content="https://careers.cbgpu.com"><link rel="icon" href="/logo.png"><script src="/theme.js"></script><link rel="stylesheet" href="/style.css"><script defer src="/onboarding.js"></script></head><body><a class="skip" href="#main">본문으로 건너뛰기</a><header><a class="brand" href="/" aria-label="CBGPU Careers 홈"><img src="/logo.png" alt=""><strong>CBGPU</strong><span>careers</span></a><nav aria-label="주 메뉴"><a href="/#team">팀 소개</a><a href="/#positions">모집 중인 역할 <span class="nav-dot"></span></a><a href="/onboarding" data-route="">합류 가이드</a></nav><div class="header-actions"><a class="header-link" href="https://cbgpu.com">CBGPU ↗</a><button class="theme-toggle" type="button" aria-label="화면 테마 전환" title="화면 테마 전환"></button></div></header><main id="main" tabindex="-1"><div id="view"><section class="detail"><a class="back" data-route="" href="/">← 모집 페이지</a><div class="detail-layout"><article><p class="eyebrow">WELCOME TO THE TEAM</p><h1>CBGPU에서의 첫날,<br>여기서 시작해요.</h1><p class="lead">합류 안내를 받은 새 팀원을 위한 시작 가이드예요.</p><p class="note">지원서 제출만으로 합류가 확정되는 것은 아니에요. 담당자에게 합류 안내를 받았다면 아래 순서대로 진행해주세요. Slack 초대 링크는 만료되거나 운영자가 변경할 수 있어요. 접속되지 않으면 info@cbgpu.com으로 알려주세요.</p><h2>01. Slack 워크스페이스에 참여해요</h2><p>아래 초대 링크를 열고 사용할 이메일로 가입하거나 로그인하세요. 워크스페이스 이름이 <strong>CBGPU Engineering</strong>인지 확인하고, 팀원이 알아볼 수 있도록 표시 이름을 설정해주세요.</p><a class="primary" href="https://join.slack.com/t/cbgpuengineering/shared_invite/zt-4fk9n8tkx-F1TSN9wCapb5FmH4ISGpdg" target="_blank" rel="noopener noreferrer">Slack 참여하기 ↗</a><h2>02. 자기소개와 GitHub ID를 올려요</h2><p>Slack에 들어간 뒤 기본으로 참여된 대화 채널에 아래 양식으로 메시지를 올려주세요. 채널이 여러 개라면 담당자가 안내한 자기소개 채널을 이용해주세요.</p><pre class="welcome-template">안녕하세요! CBGPU에 합류한 [이름]입니다.
 담당/관심 분야: [프론트엔드 / 백엔드 / 앱 / 인프라 / 디자인 / 기획·운영]
 GitHub ID: [아이디]
 GitHub 프로필: https://github.com/[아이디]

diff --git a/careers/public/theme.js b/careers/public/theme.js
@@ -1,0 +1,7 @@
+/* Same theme key, palettes and system default as the main CBGPU website. */
+'use strict';
+(()=>{const root=document.documentElement,media=matchMedia('(prefers-color-scheme: dark)');let preference='system';try{preference=localStorage.getItem('theme')||'system'}catch{}
+const moon='<svg viewBox="0 0 24 24" fill="none" stroke="currentColor" stroke-width="1.8" aria-hidden="true"><path d="M20.9 13a9 9 0 0 1-9.9-9.9A9 9 0 1 0 20.9 13Z"/></svg>';
+const sun='<svg viewBox="0 0 24 24" fill="none" stroke="currentColor" stroke-width="1.8" aria-hidden="true"><circle cx="12" cy="12" r="4"/><path d="M12 2v2m0 16v2M2 12h2m16 0h2M4.93 4.93l1.42 1.42m11.3 11.3 1.42 1.42m0-14.14-1.42 1.42M6.35 17.65l-1.42 1.42"/></svg>';
+function apply(){const dark=preference==='dark'||(preference!=='light'&&media.matches);root.classList.toggle('dark',dark);root.style.colorScheme=dark?'dark':'light';document.querySelectorAll('.theme-toggle').forEach(button=>{button.innerHTML=dark?sun:moon;button.setAttribute('aria-label',dark?'라이트 모드로 전환':'다크 모드로 전환');button.setAttribute('aria-pressed',String(dark))})}
+apply();media.addEventListener('change',apply);window.addEventListener('storage',e=>{if(e.key==='theme'){preference=e.newValue||'system';apply()}});document.addEventListener('DOMContentLoaded',()=>{apply();document.querySelectorAll('.theme-toggle').forEach(button=>button.addEventListener('click',()=>{preference=root.classList.contains('dark')?'light':'dark';try{localStorage.setItem('theme',preference)}catch{}apply()}))})})();

diff --git a/careers/server.py b/careers/server.py
@@ -76,7 +76,7 @@ class Handler(BaseHTTPRequestHandler):
   if path=='/api/form':return self.send(200,{'token':token()})
   if path=='/robots.txt':return self.send(200,f'User-agent: *\nDisallow: /api/\nDisallow: /apply/\nSitemap: {ORIGIN}/sitemap.xml\n','text/plain; charset=utf-8')
   if path=='/sitemap.xml':return self.send(200,'<?xml version="1.0" encoding="UTF-8"?><urlset xmlns="http://www.sitemaps.org/schemas/sitemap/0.9">'+''.join(f'<url><loc>{ORIGIN}{p}</loc></url>' for p in ['/','/onboarding']+['/roles/'+r['id'] for r in ROLES])+'</urlset>','application/xml')
-  assets={'/style.css':('style.css','text/css; charset=utf-8'),'/app.js':('app.js','text/javascript; charset=utf-8'),'/onboarding.js':('onboarding.js','text/javascript; charset=utf-8'),'/logo.png':('logo.png','image/png')}
+  assets={'/style.css':('style.css','text/css; charset=utf-8'),'/theme.js':('theme.js','text/javascript; charset=utf-8'),'/app.js':('app.js','text/javascript; charset=utf-8'),'/onboarding.js':('onboarding.js','text/javascript; charset=utf-8'),'/logo.png':('logo.png','image/png')}
   if path in assets:
    name,kind=assets[path];return self.send(200,(ROOT/'public'/name).read_bytes(),kind)
   if path in ['/','/privacy','/onboarding'] or re.fullmatch(r'/(roles|apply)/('+'|'.join(r['id'] for r in ROLES)+')/?',path):

diff --git a/careers/README.md b/careers/README.md
@@ -95,3 +95,14 @@ Edit and Zone → DNS → Edit, limited to the CBGPU account/zone) in
 The route script prefers that credential over an interactive dashboard session.
 Never put the token in source files or chat. An alternative token path can be
 passed through `CBGPU_CLOUDFLARE_ROUTING_TOKEN_FILE`.
+
+## Shared public-site appearance
+
+Recruitment, job details, application forms and the standalone joining guide use
+CBGPU main-site light/dark colors from `src/app/globals.css`, the system font
+stack, grayscale logo, italic wordmark, neutral bordered cards and primary button
+conventions. The header theme toggle follows the main site's `theme` storage key
+and system default. Preferences persist within this origin; localStorage is not
+shared between subdomains. No separate font service is needed.
+
+![Dark appearance](./docs/desktop-dark.png)
